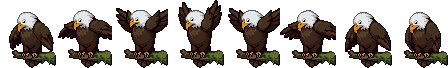
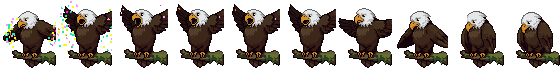
Replace the eagle's celebration with a confetti toss
The celebration is now a 10-frame PixelLab animation (variant C): he
throws confetti and cheers with his wings up, then settles. It's kept
exactly as drawn, confetti included. The old wing-flap frames stay in
the shared palette and frame-size calculation so no other sheet changes,
and the text confetti overlay is removed since the art has its own.

diff --git a/src/styles.css b/src/styles.css
@@ -513,11 +513,11 @@
   background-size: 800% 100%;
   animation: eagle-pet-frames 0.9s steps(8, jump-none) forwards;
 }
-/* Celebration: 8-frame wing-flap, played once (CELEBRATE_MS in StudyEagle.tsx). */
+/* Celebration: 10-frame confetti toss, played once (MODE_DURATION_MS in eagle-state.ts). */
 .study-eagle-sprite-celebrating {
   background-image: url("/eagle-celebrate.png");
-  background-size: 800% 100%;
-  animation: eagle-celebrate-frames 1.1s steps(8, jump-none) forwards;
+  background-size: 1000% 100%;
+  animation: eagle-celebrate-frames 1.4s steps(10, jump-none) forwards;
 }
 /* Nodding off: 8-frame yawn, then the head sinks into the sleeping pose; played once (FALL_ASLEEP_MS). */
 .study-eagle-sprite-fallingAsleep {

diff --git a/src/components/StudyEagle.tsx b/src/components/StudyEagle.tsx
@@ -771,11 +771,6 @@ export function StudyEagle() {
               <PixelHeart />
             </div>
           )}
-          {mode === "celebrating" && (
-            <div className="study-eagle-confetti" aria-hidden="true">
-              ✦ · ✧ ✦ · ✧
-            </div>
-          )}
           <button
             type="button"
             aria-label={`Study Eagle. ${isDozing(mode) ? "Sleeping. " : ""}Tap to pet, drag the branch up or down.`}

diff --git a/src/lib/eagle-state.ts b/src/lib/eagle-state.ts
@@ -62,7 +62,7 @@ export const MODE_DURATION_MS: Partial<Record<EagleMode, number>> = {
   fallingAsleep: 2_000, // 8-frame yawn
   wakingUp: 1_200, // 8-frame stretch
   startled: 1_000, // 8-frame jolt awake
-  celebrating: 1_100, // 8-frame wing-flap
+  celebrating: 1_400, // 10-frame confetti toss
   petting: 900, // 8-frame head-bob
   openingBook: 900, // 6 frames: takes out the book
   openingGlass: 900, // 6 frames: takes out the magnifying glass

diff --git a/scripts/build-eagle-sprites.py b/scripts/build-eagle-sprites.py
@@ -3,7 +3,9 @@
   sleeping-eagle-source.jpg   the 4-frame sleeping eagle (a blurry JPEG of ~7.5px art pixels)
   pixellab-awake-edit.png     PixelLab edit of sleep frame 1 with the eyes opened (80x80)
   pixellab-idle.png           PixelLab animation from the awake frame: blink + head turn (8 x 80x80)
-  pixellab-celebrate.png      PixelLab animation from the awake frame: wing-flap (8 x 80x80)
+  pixellab-celebrate.png      PixelLab animation from the awake frame: wing-flap (8 x 80x80); no longer
+                              shown, but still part of the shared palette and frame size
+  pixellab-celebrate-confetti.png PixelLab animation from the awake frame: confetti toss and cheer (10 x 80x80)
   pixellab-pet.png            PixelLab animation from the awake frame: happy head-bob (8 x 80x80)
   pixellab-fallasleep.png     PixelLab animation, awake frame -> sleep frame 1: a yawn, then the head sinks (8 x 80x80)
   pixellab-wakeup.png         PixelLab animation, sleep frame 1 -> awake frame: head up, wing stretch (8 x 80x80)
@@ -19,7 +21,7 @@ branch is identical in every frame and the sheets are mirrored so the branch's
 cut end sits against the right edge of the screen:
   public/eagle-awake.png      8 frames (idle loop)
   public/eagle-sleep.png      4 frames
-  public/eagle-celebrate.png  8 frames (played once)
+  public/eagle-celebrate.png  10 frames (played once): the confetti toss
   public/eagle-pet.png        8 frames (played once per tap)
   public/eagle-fallasleep.png 8 frames (played once, awake -> sleeping)
   public/eagle-wakeup.png     8 frames (played once, sleeping -> awake)
@@ -548,6 +550,19 @@ Image.fromarray(tidy_search(finish([search80[i] for i in SEARCH_OPEN]), len(SEAR
     OUT / "eagle-search-open.png", optimize=True)
 Image.fromarray(tidy_search(finish([search80[i] for i in SEARCH_LOOP]), len(SEARCH_LOOP)), "RGBA").save(
     OUT / "eagle-search.png", optimize=True)
+
+# The celebration is the confetti toss, kept exactly as PixelLab drew it (no speck
+# removal: the confetti is the point). The old wing-flap above stays in the palette
+# and frame-size calculations so no other sheet changes.
+confetti80 = [shift(f) for f in (lambda sheet: [sheet[:, 80 * i:80 * i + 80].copy()
+              for i in range(sheet.shape[1] // 80)])(
+                  np.asarray(Image.open(SRC / "pixellab-celebrate-confetti.png").convert("RGBA")))]
+for f in confetti80:
+    f[LOCK:] = awake80[LOCK:]
+confetti80 = snap_extra(confetti80)
+for f in confetti80:
+    f[:y0] = 0; f[y1:] = 0; f[:, x1:] = 0
+celebrate80 = confetti80
 
 for name, frames in (("eagle-awake", idle80), ("eagle-sleep", sleep80), ("eagle-celebrate", celebrate80),
                      ("eagle-pet", pet80), ("eagle-fallasleep", fallasleep80), ("eagle-wakeup", wakeup80)):
